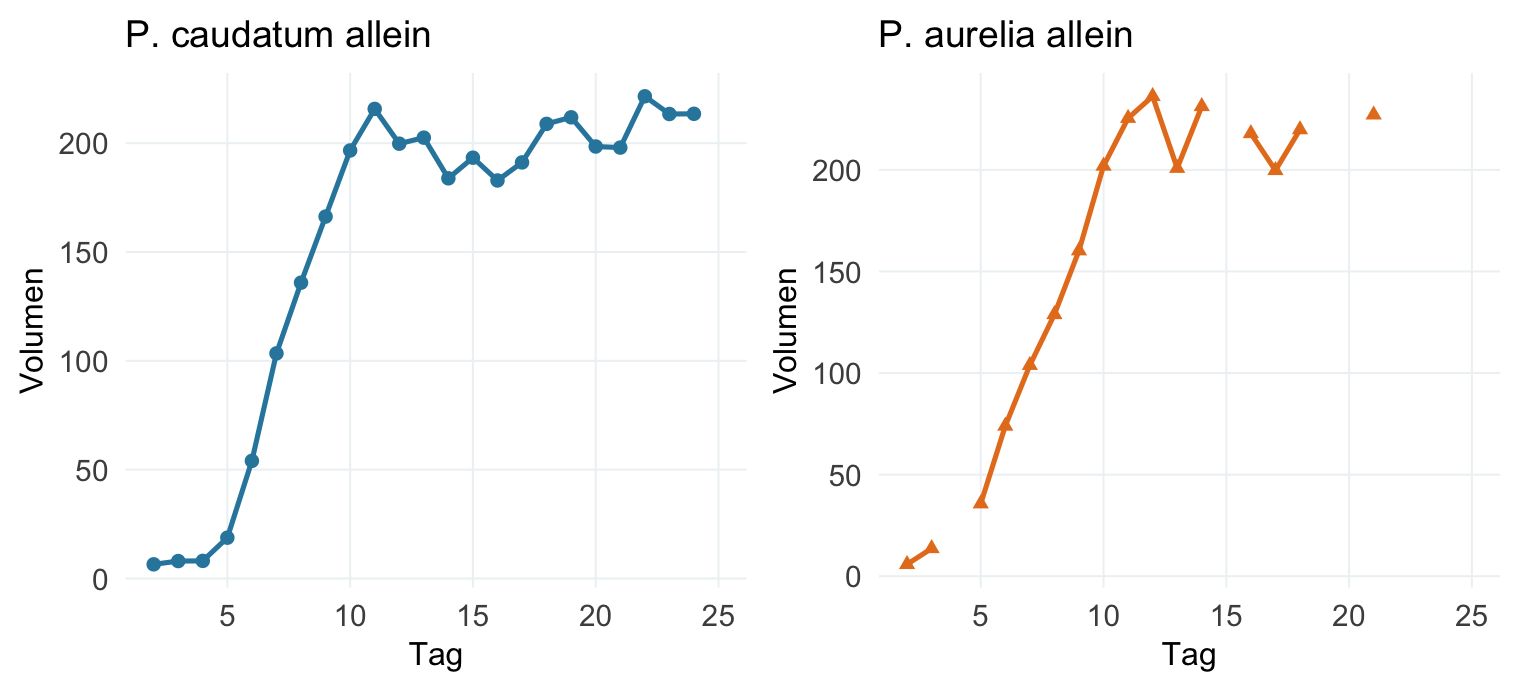
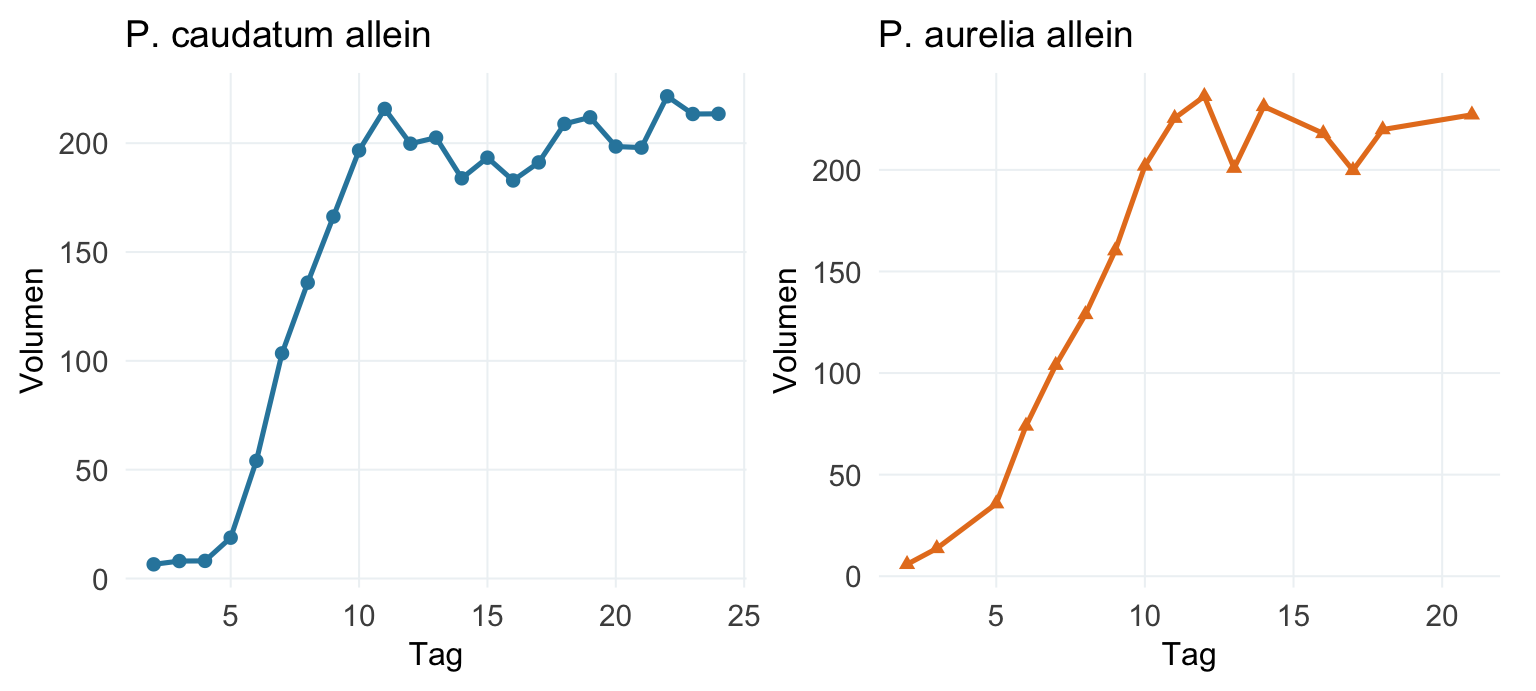
Week 3: PaNDiv Uni-Bern box, hysteresis arrows, and Gause polish.

diff --git a/weeks/print.css b/weeks/print.css
@@ -1,3 +1,62 @@
+/* Uni Bern research pointer — reuse on any slide:
+   ::: {.unibe}
+   **Projektname**
+   Ein Satz zur Verbindung mit der Folie.
+   [Seite](url) · [Paper](doi)
+   :::
+   The kicker «Forschung an der Uni Bern» comes from CSS. */
+.reveal .unibe {
+  margin: 0.45em 0 0.15em 0;
+  padding: 0.55em 0.95em 0.7em 1em;
+  background: #fdf6f6;
+  border-left: 6px solid #e2001a;
+  border-radius: 0 8px 8px 0;
+  width: 94%;
+  box-sizing: border-box;
+  font-size: 0.78em;
+  line-height: 1.35;
+}
+
+.reveal .unibe::before {
+  content: "Forschung an der Uni Bern";
+  display: block;
+  font-size: 0.7em;
+  font-weight: 700;
+  letter-spacing: 0.05em;
+  text-transform: uppercase;
+  color: #e2001a;
+  margin-bottom: 0.4em;
+}
+
+.reveal .unibe p {
+  margin: 0.22em 0;
+}
+
+.reveal .unibe a {
+  color: #8b0010;
+  text-decoration: underline;
+  text-underline-offset: 0.12em;
+}
+
+.reveal .photo-banner {
+  margin: 0.1em 0 0.35em 0;
+}
+
+.reveal .photo-banner img {
+  width: 100%;
+  max-height: 200px;
+  object-fit: cover;
+  object-position: center;
+}
+
+.reveal .photo-banner > p:last-child {
+  margin: 0.12em 0 0 0;
+  font-size: 0.48em;
+  line-height: 1.2;
+  color: #7f8c8d;
+  text-align: right;
+}
+
 /* Keep photos and slide colours when students print / save as PDF. */
 @media print {
   html,

diff --git a/pics/README.md b/pics/README.md
@@ -93,6 +93,14 @@ den öffentlichen Kurs-Hub legen.
 | `marine_sticklebacks.jpg` | Marine Stichlinge, Oyster Lagoon. Peichel- / Schluter-Labore. |
 | `pond2_chrxi_sign.jpg` | Teich 2, Inversion Chr XI. Peichel- / Schluter-Labore. |
 
+## PaNDiv (`pics/pandiv/`)
+
+Lehrkopie vom Allan Ecology Lab. Nur für den Kurs; Namensnennung beibehalten.
+
+| Lokale Datei | Hinweis |
+|---|---|
+| `pandiv_wide.jpg` | Luftbild der 336 Versuchsparzellen in Münchenbuchsee. Foto: Hugo Vincent ©. Quelle: [allanecology.com/projects/pandiv](https://allanecology.com/projects/pandiv/) |
+
 ## Organismen (`pics/organisms/`)
 
 | Lokale Datei | Commons-Datei | Urheber:in | Lizenz |

diff --git a/README.md b/README.md
@@ -354,6 +354,7 @@ Alternativ eine betreuende Person bitten, die Ausführung in CI zu aktivieren (d
 - **Startseite** in der Fusszeile verlinken
 - Bildquellen nachweisen (Folienrand oder `pics/README.md`)
 - Für empirische Aussagen reale Daten / Zitate verwenden
+- Hinweis auf Forschung an der Uni Bern: Box `::: {.unibe}` (Stil in `weeks/print.css`). Der Kicker «Forschung an der Uni Bern» kommt aus dem CSS.
 
 Vorlagen:
 
